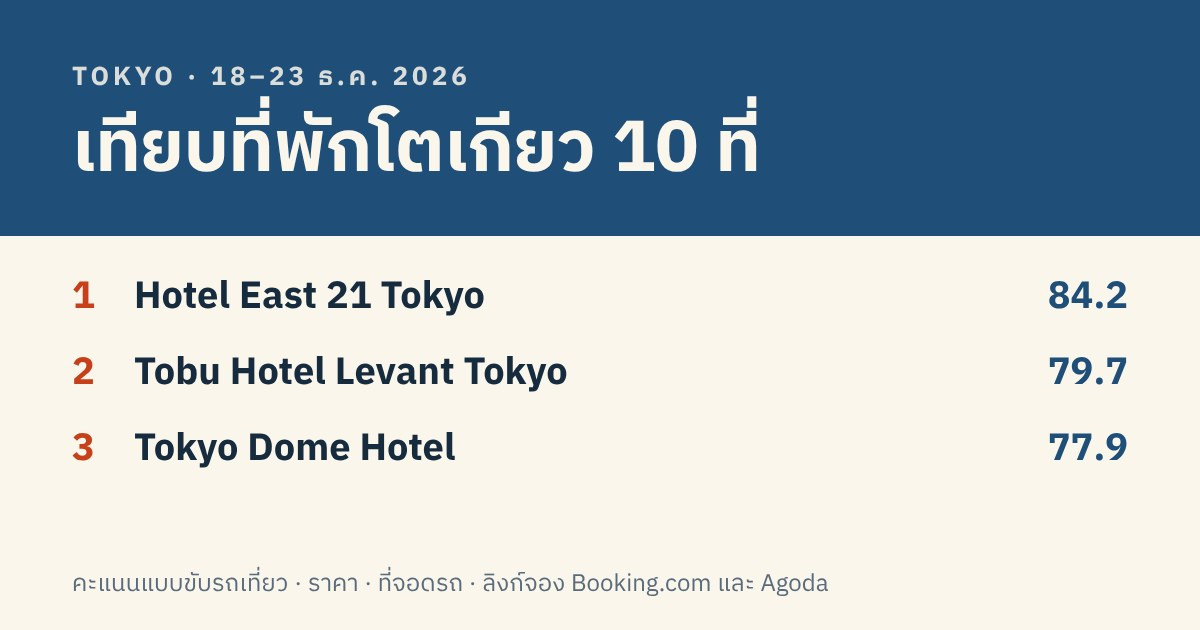
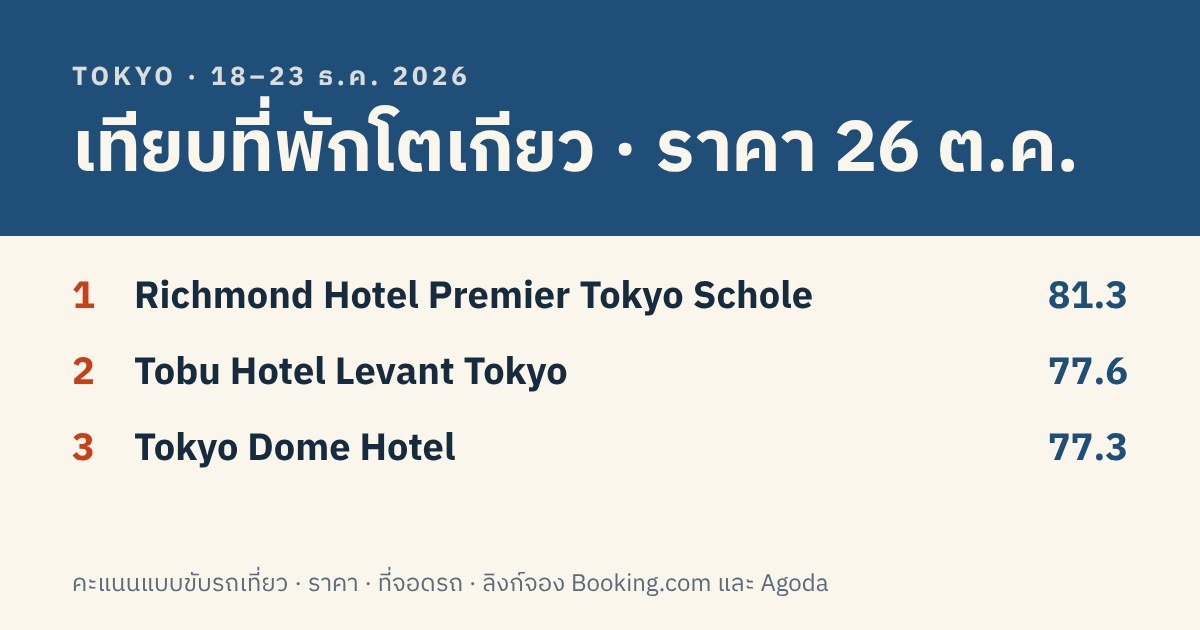
Update Tokyo hotel prices (26 Oct) and re-score
- Prices refreshed from Booking.com and Agoda via Trivago
- Hotel East 21 and Ariake Washington marked sold out, excluded from ranking
- Richmond now scored as 1 room (38 m2 + extra bed)

Claude-Session: https://claude.ai/code/session_01SV98N743TaKhzUEWTdNbCs

diff --git a/tokyo-2026/index.html b/tokyo-2026/index.html
@@ -5,11 +5,11 @@
 <meta name="viewport" content="width=device-width, initial-scale=1, viewport-fit=cover">
 <meta name="robots" content="noindex, nofollow">
 <title>ที่พักโตเกียว 18–23 ธ.ค.</title>
-<meta name="description" content="เทียบที่พักโตเกียว 10 ที่ คะแนน ราคา ที่จอดรถ แผนที่ และลิงก์จอง Booking.com กับ Agoda">
+<meta name="description" content="เทียบที่พักโตเกียว ราคาอัปเดต 26 ต.ค. คะแนน ที่จอดรถ แผนที่ และลิงก์จอง Booking.com กับ Agoda">
 <meta property="og:type" content="website">
 <meta property="og:title" content="ที่พักโตเกียว 18–23 ธ.ค.">
-<meta property="og:description" content="เทียบ 10 ที่พัก · คะแนนแบบขับรถเที่ยว · ราคา ที่จอดรถ และลิงก์จอง">
-<meta property="og:image" content="https://phoneyjung.github.io/PHONE/tokyo-2026/og.jpg">
+<meta property="og:description" content="ราคาอัปเดต 26 ต.ค. · คะแนนแบบขับรถเที่ยว · ที่จอดรถ และลิงก์จอง">
+<meta property="og:image" content="https://phoneyjung.github.io/PHONE/tokyo-2026/og.jpg?v=20261026">
 <meta property="og:image:width" content="1200">
 <meta property="og:image:height" content="630">
 <meta property="og:url" content="https://phoneyjung.github.io/PHONE/tokyo-2026/">
@@ -131,7 +131,7 @@ footer p{margin:0}
       <span class="chip">5 คืน · เช็กอิน 18 ธ.ค.</span>
       <span class="chip">ผู้ใหญ่ 3 + เด็ก 6 ขวบ</span>
       <span class="chip">รถ Serena สูงประมาณ 1.87 ม.</span>
-      <span class="chip">ราคา Booking.com ณ 8 ต.ค. 2026</span>
+      <span class="chip">ราคาเช็กเมื่อ 26 ต.ค. 2026</span>
     </div>
   </header>
 
@@ -177,8 +177,8 @@ footer p{margin:0}
   </section>
 
   <footer>
-    <p><b>ราคา</b> เป็นราคารวม 5 คืนจาก Booking.com ที่เช็กวันที่ 8 ต.ค. 2026 ราคาเปลี่ยนได้ทุกวัน ราคา Agoda ยังไม่ได้เช็กโดยตรง ที่ระบุไว้มาจาก Trivago ซึ่งแสดงแค่เว็บที่ถูกที่สุด</p>
-    <p><b>ความคุ้ม</b> คิดจากราคา ถูกสุดในกลุ่มได้ 10 แพงสุดได้ 4 ที่ไม่มีอาหารเช้าใช้ราคาห้องอย่างเดียว</p>
+    <p><b>ราคา</b> เป็นราคารวม 5 คืนที่ถูกที่สุดที่เจอบน Booking.com หรือ Agoda (ผ่าน Trivago) เมื่อ 26 ต.ค. 2026 บางเรทเป็นแบบไม่คืนเงิน ราคาเปลี่ยนได้ทุกวัน</p>
+    <p><b>ความคุ้ม</b> คิดจากราคา ถูกสุดในกลุ่มที่ยังมีห้องได้ 10 แพงสุดได้ 4 ที่ไม่มีอาหารเช้าใช้ราคาห้องอย่างเดียว ที่ห้องเต็มแล้วไม่นำมาจัดอันดับ</p>
     <p><b>เกณฑ์อื่น</b> (ห้อง ที่จอด ร้านสะดวกซื้อ อาหารเช้า ทำเล) เป็นการประเมินจากข้อมูลโรงแรม รีวิว และระยะบน Google Maps ระยะร้านสะดวกซื้อเป็นเส้นตรง เดินจริงไกลกว่านี้เล็กน้อย</p>
     <p><b>ลิงก์ Agoda</b> ที่มีเครื่องหมาย * สร้างจากชื่อโรงแรม ยังไม่ได้ยืนยันว่าเป็นหน้าของโรงแรมนั้นจริง ถ้ากดแล้วไม่ใช่ ให้ค้นชื่อโรงแรมใน Agoda แทน</p>
   </footer>
@@ -196,8 +196,8 @@ const CRIT=[
 const BQ='checkin=2026-12-18&checkout=2026-12-23&group_adults=3&group_children=1&age=6&selected_currency=THB&no_rooms=';
 const AQ='checkIn=2026-12-18&los=5&adults=3&children=1&childages=6&rooms=';
 const H=[
- {id:'east21',pros:["ถูกที่สุดในกลุ่ม 4 อันดับแรก", "อาหารเช้าดีที่สุด มีออมเล็ตทำสด", "ค่าจอดถูก 1,500 เยน ไม่ต้องจอง", "ใกล้ทางด่วน KidZania และทางไป Kisarazu มีสระว่ายน้ำในร่ม"],cons:["ถ้านั่งรถไฟ ต้องเดินไปสถานี 10 นาทีและเปลี่ยนสาย"],name:'Hotel East 21 Tokyo',area:'Toyocho, Koto',rating:8.5,price:60616,rooms:2,priceNote:'รวมอาหารเช้า · ต้องเช็กว่าได้ห้องแบบไหน',
-  agodaNote:'Trivago: ถูกสุดคือ Trip.com 30,105 บาท (ห้องอย่างเดียว น่าจะเป็นห้องเล็กกว่า)',
+ {id:'east21',soldOut:true,pros:["ถูกที่สุดในกลุ่ม 4 อันดับแรก", "อาหารเช้าดีที่สุด มีออมเล็ตทำสด", "ค่าจอดถูก 1,500 เยน ไม่ต้องจอง", "ใกล้ทางด่วน KidZania และทางไป Kisarazu มีสระว่ายน้ำในร่ม"],cons:["ถ้านั่งรถไฟ ต้องเดินไปสถานี 10 นาทีและเปลี่ยนสาย"],name:'Hotel East 21 Tokyo',area:'Toyocho, Koto',rating:8.5,price:60616,rooms:2,priceNote:'ห้องเต็มบน Booking.com และไม่มีราคาบน Trivago (เช็ก 26 ต.ค.) ราคาเดิมเมื่อ 8 ต.ค. คือ 60,616',
+  agodaNote:'ลองเช็กบน Agoda หรือเว็บโรงแรมโดยตรง',
   s:{room:7,park:10,konbini:8,bf:9,loc:9},
   room:'Twin 27 ตร.ม. × 2 ห้อง หรือ Family 34 ตร.ม. ห้องเดียว · มีสระว่ายน้ำในร่ม (อาจมีค่าใช้)',
   park:'ในร่ม 111 คัน · 1,500 เยน/คืน · สูงไม่เกิน 2.1 ม. · ไม่ต้องจอง · จอดได้ถึง 16:00 วันถัดไป',
@@ -206,10 +206,10 @@ const H=[
   loc:'ใกล้ทางขึ้นทางด่วน Kiba (Shuto สาย 9) และ Wangan · KidZania ประมาณ 3 กม. · ไป Kisarazu และนาริตะสะดวก · ถ้านั่งรถไฟ สถานี Toyocho เดินประมาณ 10 นาที',
   flag:null, lat:35.674496,lng:139.814412,pid:'ChIJiYfvh_2IGGARMcIRnDLkOzg',
   bk:'east-21-tokyo',ag:'hotel-east-21-tokyo-okura-hotels-resorts',agGuess:false},
- {id:'richmond',pros:["ห้องใหญ่ที่สุด Twin 38 ตร.ม. × 2", "ติด Skytree และสถานี Oshiage", "ซูเปอร์มาร์เก็ต Life อยู่ในตึก", "อาหารเช้าดี ค่าจอดถูก 1,500 เยน"],cons:["เอารถออกระหว่างวันเสียค่าจอดเพิ่มทุกครั้ง"],name:'Richmond Hotel Premier Tokyo Schole',area:'Oshiage, Sumida',rating:9.1,price:85849,rooms:2,priceNote:'2 ห้อง รวมอาหารเช้า (ห้องเดียวรวมอาหารเช้า 98,144)',
-  agodaNote:'Trivago: Booking.com ถูกที่สุด',
-  s:{room:10,park:5,konbini:10,bf:8,loc:8},
-  room:'Twin 38 ตร.ม. × 2 ห้อง หรือ Deluxe Twin 54.4 ตร.ม. ห้องเดียว + เตียงเสริม',
+ {id:'richmond',pros:["ราคาลดลงมาก ห้อง 38 ตร.ม. รวมอาหารเช้า", "ติด Skytree และสถานี Oshiage", "ซูเปอร์มาร์เก็ต Life อยู่ในตึก", "อาหารเช้าดี ค่าจอดถูก 1,500 เยน"],cons:["เอารถออกระหว่างวันเสียค่าจอดเพิ่มทุกครั้ง"],name:'Richmond Hotel Premier Tokyo Schole',area:'Oshiage, Sumida',rating:9.1,price:49952,rooms:1,priceNote:'Booking.com ห้องเดียว รวมอาหารเช้า เรทไม่คืนเงิน · เรทยกเลิกได้ 56,069 · แบบ 2 ห้อง 80,340 · อาหารเช้าของเด็กอาจจ่ายเพิ่ม',
+  agodaNote:'Trivago: Booking.com ถูกที่สุด · trivago DEALS 59,140',
+  s:{room:8,park:5,konbini:10,bf:8,loc:8},
+  room:'Standard 38 ตร.ม. ห้องเดียว เตียงเดี่ยว 2 + เตียงเสริม (หรือ 2 ห้อง 80,340 บาท)',
   park:'ลาน Times ชั้น 3–4 ในตึกโรงแรม · 1,500 เยน/คืน · สูง 2.1 กว้าง 1.9 ยาว 5.0 ม. หนักไม่เกิน 2.5 ตัน · จองไม่ได้',
   bf:'บุฟเฟต์ · ผู้ใหญ่ 2,500 เด็กประถม 1,250 เยน · 06:30–10:30 · รีวิวส่วนใหญ่ชม',
   konbini:'ซูเปอร์มาร์เก็ต Life ในตึกเดียวกัน (09:30–24:00) · FamilyMart ที่สถานีประมาณ 70 ม. · 7-Eleven 24 ชม. ประมาณ 160 ม.',
@@ -217,7 +217,7 @@ const H=[
   flag:{t:'เอารถออกระหว่างวันต้องเสียค่าจอดเพิ่มทุกครั้ง ถ้าขับรถเที่ยวทุกวันจะเสียเพิ่มเกือบทุกวัน',bad:true},
   lat:35.710234,lng:139.813758,pid:'ChIJlTrCJyqPGGARe9oTcpE9r3k',
   bk:'richmond-hotel-premier-tokyo-oshiage',ag:'richmond-hotel-premier-tokyo-oshiage',agGuess:false},
- {id:'dome',pros:["Lawson 24 ชม. อยู่ในโรงแรม", "ติด Tokyo Dome City มีเครื่องเล่นให้ลูก", "ที่จอดใหญ่ 283 คัน", "JR ไป Akihabara 2 สถานี"],cons:["ห้องเดียว เตียงเดี่ยว 3 เตียง ลูกต้องนอนร่วม"],name:'Tokyo Dome Hotel',area:'Suidobashi, Bunkyo',rating:8.7,price:76006,rooms:1,priceNote:'ห้องเดียว รวมอาหารเช้า',
+ {id:'dome',pros:["Lawson 24 ชม. อยู่ในโรงแรม", "ติด Tokyo Dome City มีเครื่องเล่นให้ลูก", "ที่จอดใหญ่ 283 คัน", "JR ไป Akihabara 2 สถานี"],cons:["ห้องเดียว เตียงเดี่ยว 3 เตียง ลูกต้องนอนร่วม"],name:'Tokyo Dome Hotel',area:'Suidobashi, Bunkyo',rating:8.7,price:78862,rooms:1,priceNote:'Booking.com ห้องเดียว รวมอาหารเช้า · ไม่รวมอาหารเช้า 68,336',
   agodaNote:'Trivago ไม่มีราคา',
   s:{room:7,park:9,konbini:10,bf:7,loc:8},
   room:'Triple 33 ตร.ม. เตียงเดี่ยว 3 เตียง (ลูกนอนร่วม)',
@@ -227,8 +227,8 @@ const H=[
   loc:'อยู่กลางเมือง ใกล้ Harajuku ที่สุดในกลุ่ม (ประมาณ 6 กม.) · ใกล้ทางขึ้นทางด่วน Iidabashi (Shuto สาย 5) · ไกล Kisarazu และนาริตะกว่าที่อื่น · ติด Tokyo Dome City',
   flag:null, lat:35.703667,lng:139.753393,pid:'ChIJRZ_bSz-MGGARPMc7IsdsZiY',
   bk:'tokyo-dome-hotel',ag:'tokyo-dome-hotel',agGuess:true},
- {id:'tobu',pros:["ทำเลเข้ากับแผนที่สุด ไม่ต้องแก้แผน", "JR ไป Akihabara และสาย Hanzomon ไป Omotesando ได้ตรง", "ที่จอดรับรถสูงได้ 2.2 ม.", "ร้านสะดวกซื้อและซูเปอร์มาร์เก็ตรอบโรงแรม"],cons:["อาหารเช้าเมนูซ้ำ ค่าจอด 3,000 เยน และจองที่จอดไม่ได้"],name:'Tobu Hotel Levant Tokyo',area:'Kinshicho, Sumida · ที่เลือกไว้เดิม',rating:8.8,price:68626,rooms:2,priceNote:'2 ห้อง รวมอาหารเช้า (ห้องเดียวรวมอาหารเช้า 63,642)',
-  agodaNote:'Trivago: ถูกสุดคือ Trip.com 55,141 บาท (ห้องเดียว ไม่รวมอาหารเช้า)',
+ {id:'tobu',pros:["ทำเลเข้ากับแผนที่สุด ไม่ต้องแก้แผน", "JR ไป Akihabara และสาย Hanzomon ไป Omotesando ได้ตรง", "ที่จอดรับรถสูงได้ 2.2 ม.", "ร้านสะดวกซื้อและซูเปอร์มาร์เก็ตรอบโรงแรม"],cons:["อาหารเช้าเมนูซ้ำ ค่าจอด 3,000 เยน และจองที่จอดไม่ได้"],name:'Tobu Hotel Levant Tokyo',area:'Kinshicho, Sumida · ที่เลือกไว้เดิม',rating:8.8,price:79492,rooms:2,priceNote:'Booking.com 2 ห้อง รวมอาหารเช้า · ห้องเดียวรวมอาหารเช้า 91,842',
+  agodaNote:'Trivago ไม่มีราคา',
   s:{room:8,park:8,konbini:10,bf:6,loc:9},
   room:'Twin 28.5 ตร.ม. × 2 ห้อง หรือห้อง 4 เตียงเดี่ยว ห้องเดียว',
   park:'ในร่ม 84 คัน · 3,000 เยน/คืน · สูงไม่เกิน 2.2 ม. · จองไม่ได้ มาก่อนได้ก่อน',
@@ -237,7 +237,7 @@ const H=[
   loc:'ใกล้ทางขึ้นทางด่วน Kinshicho (Shuto สาย 7) ต่อไปนาริตะและ Kisarazu ได้ · Skytree ประมาณ 1.4 กม. · สถานี Kinshicho 5 นาทีถ้าอยากนั่งรถไฟ · แผนเดิมเขียนจากที่นี่',
   flag:null, lat:35.697213,lng:139.810939,pid:'ChIJBbNl_1yNGGARuA1NfRdQ4cs',
   bk:'tobu-levant-tokyo',ag:'tobu-hotel-levant-tokyo',agGuess:false},
- {id:'asakusatobu',pros:["รีวิวสูง 9.1 จากกว่า 7,800 รีวิว", "ติดสถานี Asakusa สาย Ginza ไป Ueno และ Omotesando ได้ตรง", "7-Eleven ติดโรงแรม", "มีห้องธีม Hello Kitty"],cons:["แพง และเป็นห้องเดียวแบบ Triple ต้องจองที่จอด"],name:'Asakusa Tobu Hotel',area:'Asakusa, Taito · ตัวเลือกใหม่',rating:9.1,price:88595,rooms:1,priceNote:'ห้องเดียว รวมอาหารเช้า',
+ {id:'asakusatobu',pros:["รีวิวสูง 9.1 จากกว่า 7,800 รีวิว", "ติดสถานี Asakusa สาย Ginza ไป Ueno และ Omotesando ได้ตรง", "7-Eleven ติดโรงแรม", "มีห้องธีม Hello Kitty"],cons:["แพง และเป็นห้องเดียวแบบ Triple ต้องจองที่จอด"],name:'Asakusa Tobu Hotel',area:'Asakusa, Taito · ตัวเลือกใหม่',rating:9.1,price:87950,rooms:1,priceNote:'Booking.com ห้องเดียว รวมอาหารเช้า · ไม่รวมอาหารเช้า 81,043',
   agodaNote:'Trivago ไม่มีราคา',
   s:{room:7,park:7,konbini:10,bf:8,loc:8},
   room:'Deluxe Triple 35 ตร.ม. · มีห้องธีม Hello Kitty (ราคาแยก)',
@@ -247,8 +247,8 @@ const H=[
   loc:'ติดสถานี Asakusa · สาย Ginza ไป Ueno และ Omotesando ได้ตรง · สาย Tobu ไป Skytree 1 สถานี',
   flag:null, lat:35.711385,lng:139.797425,pid:'ChIJ8UTIv8aOGGARrFzeWHTIBKU',
   bk:'asakusa-tobu',ag:'asakusa-tobu-hotel',agGuess:true},
- {id:'ariake',pros:["ค่าจอดถูกที่สุด 1,000 เยน ไม่ต้องจอง", "ร้านสะดวกซื้อและ McDonald's อยู่ในตึก", "ใกล้ KidZania และทางไป Kisarazu"],cons:["ห้องเล็ก รีวิวต่ำกว่าที่อื่น และไกลย่าน Ueno กับ Skytree"],name:'Tokyo Bay Ariake Washington Hotel',area:'Ariake, Koto · ตัวเลือกใหม่',rating:8.3,price:69445,rooms:1,priceNote:'ห้องเดียว รวมอาหารเช้า',
-  agodaNote:'Trivago ไม่มีราคา',
+ {id:'ariake',soldOut:true,pros:["ค่าจอดถูกที่สุด 1,000 เยน ไม่ต้องจอง", "ร้านสะดวกซื้อและ McDonald's อยู่ในตึก", "ใกล้ KidZania และทางไป Kisarazu"],cons:["ห้องเล็ก รีวิวต่ำกว่าที่อื่น และไกลย่าน Ueno กับ Skytree"],name:'Tokyo Bay Ariake Washington Hotel',area:'Ariake, Koto · ตัวเลือกใหม่',rating:8.3,price:69445,rooms:1,priceNote:'ห้องเต็มบน Booking.com และไม่มีราคาบน Trivago (เช็ก 26 ต.ค.) ราคาเดิมเมื่อ 8 ต.ค. คือ 69,445',
+  agodaNote:'ลองเช็กบน Agoda หรือเว็บโรงแรมโดยตรง',
   s:{room:5,park:9,konbini:10,bf:7,loc:7},
   room:'Superior Triple 29 ตร.ม. ชั้นสูง · รับผู้ใหญ่ 3 ต้องถามเรื่องเตียงของลูก',
   park:'อาคารจอดรถ · 1,000 เยน/คืน · สูง 2.1 กว้าง 1.9 ยาว 5.5 ม. · จองไม่ได้',
@@ -258,8 +258,8 @@ const H=[
   flag:{t:'คะแนนรีวิวบน Trivago 7.6 จาก 13,290 รีวิว ต่ำกว่าที่อื่นในกลุ่ม และห้องค่อนข้างเล็ก',bad:false},
   lat:35.632620,lng:139.793354,pid:'ChIJz_vNA-iJGGAR7k76BIoVQP0',
   bk:'tokyo-bay-ariake-washingtonhotel',ag:'tokyo-bay-ariake-washington-hotel',agGuess:true},
- {id:'monday',pros:["มีครัวและเครื่องซักผ้าอบแห้งในห้อง", "7-Eleven ห่าง 40 ม.", "ที่จอดจองได้ รับรถสูงได้ 2.3 ม.", "ราคาบน Agoda ถูกกว่า (56,262 บาท)"],cons:["ไม่มีอาหารเช้า และต้องเช็กเอาต์ 10:00"],name:'MONday Apart Premium Ueno',area:'Kitaueno, Taito',rating:8.7,price:67382,rooms:1,priceNote:'ห้องเดียว ไม่มีอาหารเช้า',
-  agodaNote:'Trivago: Agoda ถูกกว่า ที่ 56,262 บาท',
+ {id:'monday',pros:["มีครัวและเครื่องซักผ้าอบแห้งในห้อง", "7-Eleven ห่าง 40 ม.", "ที่จอดจองได้ รับรถสูงได้ 2.3 ม.", "ราคาบน Agoda ถูกกว่า Booking.com ประมาณ 28,000 บาท"],cons:["ไม่มีอาหารเช้า และต้องเช็กเอาต์ 10:00"],name:'MONday Apart Premium Ueno',area:'Kitaueno, Taito',rating:8.7,price:45577,rooms:1,priceNote:'Agoda ห้องเดียว ไม่มีอาหารเช้า เรทไม่คืนเงิน · Booking.com 73,839',
+  agodaNote:'Trivago: Agoda ถูกที่สุด · Priceline 46,319',
   s:{room:6,park:7,konbini:9,bf:3,loc:7},
   room:'30 ตร.ม. เตียงเดี่ยว 2 + เตียงสองชั้น · ครัวเล็ก · เครื่องซักผ้าอบแห้ง',
   park:'ในตึก · 3,000 เยน/คืน · สูงไม่เกิน 2.3 ม. · ต้องจอง',
@@ -269,8 +269,8 @@ const H=[
   flag:{t:'เช็กเอาต์ 10:00 มีรีวิวว่าเลยเวลา 1 ชั่วโมงโดนคิด 6,500 เยน',bad:false},
   lat:35.716847,lng:139.781797,pid:'ChIJb5nSLeKPGGARqPRN737GMls',
   bk:'monday-apart-premium-ueno',ag:'monday-apart-premium-ueno',agGuess:true},
- {id:'andhere',pros:["ห้องใหญ่ 39–40 ตร.ม. มีบ่ออาบน้ำรวมฟรี", "มีครัวและเครื่องซักผ้า", "ใจกลาง Ueno เดินไป Ameyoko และ TAKEYA ได้", "เคยพักแล้ว รู้จักที่นี่"],cons:["แพงที่สุด และ Serena น่าจะเข้าที่จอดไม่ได้"],name:'&Here TOKYO UENO',area:'Ueno, Taito · เคยพักแล้ว',rating:8.7,price:94824,rooms:1,priceNote:'ห้องเดียว ไม่รวมอาหารเช้า (เพิ่มประมาณ 1,980 เยน/คน/วัน)',
-  agodaNote:'Trivago: Booking.com ถูกที่สุด',
+ {id:'andhere',pros:["ห้องใหญ่ 39–40 ตร.ม. มีบ่ออาบน้ำรวมฟรี", "มีครัวและเครื่องซักผ้า", "ใจกลาง Ueno เดินไป Ameyoko และ TAKEYA ได้", "เคยพักแล้ว รู้จักที่นี่"],cons:["แพงที่สุด และ Serena น่าจะเข้าที่จอดไม่ได้"],name:'&Here TOKYO UENO',area:'Ueno, Taito · เคยพักแล้ว',rating:8.7,price:94756,rooms:1,priceNote:'Agoda ห้องเดียว ไม่รวมอาหารเช้า (เพิ่มประมาณ 1,980 เยน/คน/วัน) · Booking.com 102,439 ยกเลิกฟรี',
+  agodaNote:'Trivago: Agoda ถูกที่สุด',
   s:{room:8,park:3,konbini:9,bf:6,loc:7},
   room:'Deluxe Family 39 ตร.ม. (ดับเบิล 2 + โซฟาเบด) หรือ Family 40 ตร.ม. (ดับเบิล 2 + สองชั้น 2) · ครัวเล็ก · เครื่องซักผ้า · บ่ออาบน้ำรวมฟรี',
   park:'ในร่ม 3,300 เยน/คืน เข้าออกได้ไม่จำกัด ต้องติดต่อโรงแรมเพื่อจอง · สำรอง: ลานใต้ดิน Ueno Chuo-dori ประมาณ 260 ม. (สูงไม่เกิน 2.0 ม.)',
@@ -280,8 +280,8 @@ const H=[
   flag:{t:'Booking.com ระบุว่าที่จอดรับรถสูงไม่เกิน 1.55 ม. Serena น่าจะเข้าไม่ได้ ต้องไปจอดลานสาธารณะ',bad:true},
   lat:35.709325,lng:139.770940,pid:'ChIJfxcX8E2NGGARwjCdiIe1S4k',
   bk:'amp-here-tokyo-ueno',ag:'here-tokyo-ueno',agGuess:true},
- {id:'aima',pros:["ห้อง 38 ตร.ม. มีครัวและเครื่องซักผ้า", "7-Eleven ห่าง 30 ม.", "เดินถึงสถานี Ueno 5 นาที", "รีวิว 9.0"],cons:["ไม่มีที่จอดของตัวเองและไม่มีอาหารเช้า"],name:'AIMA Ueno East',area:'Higashiueno, Taito',rating:9.0,price:84685,rooms:1,priceNote:'ห้องเดียว ไม่มีอาหารเช้า',
-  agodaNote:'ยังไม่ได้เช็กกับ Trivago',
+ {id:'aima',pros:["ห้อง 38 ตร.ม. มีครัวและเครื่องซักผ้า", "7-Eleven ห่าง 30 ม.", "เดินถึงสถานี Ueno 5 นาที", "รีวิว 9.0"],cons:["ไม่มีที่จอดของตัวเองและไม่มีอาหารเช้า"],name:'AIMA Ueno East',area:'Higashiueno, Taito',rating:9.0,price:90493,rooms:1,priceNote:'Booking.com ห้องเดียว ไม่มีอาหารเช้า',
+  agodaNote:'ยังไม่มีราคาบน Trivago',
   s:{room:8,park:3,konbini:9,bf:3,loc:7},
   room:'38 ตร.ม. ดับเบิล 2 + โซฟาเบด · ครัว · เครื่องซักผ้า',
   park:'ไม่มีที่จอดของตัวเอง · ลานใต้ดิน Ueno Chuo-dori ประมาณ 370 ม. (สูง 2.0 กว้าง 1.9 ม. วันธรรมดา 08:00–22:00 สูงสุด 2,000 เยน เสาร์อาทิตย์ไม่มีเพดาน) หรือ Ueno Parking Center (จองได้ สูงสุด 2,000/3,000 เยนต่อวัน)',
@@ -290,7 +290,7 @@ const H=[
   loc:'สถานี Ueno เดินประมาณ 5 นาที',
   flag:null, lat:35.710490,lng:139.777539,pid:'ChIJI1VUdnqPGGARVX7UouEL6Rk',
   bk:'aima-dong-jing',ag:'hotel-aima',agGuess:true},
- {id:'sunroute',pros:["ถูกที่สุด 42,641 บาท รวมอาหารเช้า", "อยู่ Asakusa ใกล้สถานี"],cons:["ห้องเล็ก 20 ตร.ม. และ Serena น่าจะเข้าที่จอดไม่ได้"],name:'Hotel Sunroute Asakusa',area:'Kaminarimon, Taito',rating:8.3,price:42641,rooms:2,priceNote:'2 ห้อง รวมอาหารเช้า',
+ {id:'sunroute',pros:["ถูกที่สุด 42,641 บาท รวมอาหารเช้า", "อยู่ Asakusa ใกล้สถานี"],cons:["ห้องเล็ก 20 ตร.ม. และ Serena น่าจะเข้าที่จอดไม่ได้"],name:'Hotel Sunroute Asakusa',area:'Kaminarimon, Taito',rating:8.3,price:46256,rooms:2,priceNote:'Booking.com 2 ห้อง รวมอาหารเช้า · ไม่รวมอาหารเช้า 39,621',
   agodaNote:'Trivago ไม่มีราคา',
   s:{room:4,park:1,konbini:7,bf:5,loc:7},
   room:'Twin 20 ตร.ม. × 2 ห้อง',
@@ -302,7 +302,7 @@ const H=[
   lat:35.710672,lng:139.792037,pid:'ChIJnTTctAyMGGARGGfA9Zr0sgM',
   bk:'sunroute-asakusa',ag:'hotel-sunroute-asakusa',agGuess:true},
 ];
-const lo=Math.min(...H.map(h=>h.price)), hi=Math.max(...H.map(h=>h.price));
+const AV=H.filter(h=>!h.soldOut);const lo=Math.min(...AV.map(h=>h.price)), hi=Math.max(...AV.map(h=>h.price));
 H.forEach(h=>{h.s.value=Math.round((10-(h.price-lo)/(hi-lo)*6)*10)/10});
 const KEY='tokyo-hotel-weights-v1';
 let W={}; CRIT.forEach(c=>W[c.k]=c.w);
@@ -321,14 +321,14 @@ function renderWeights(){
 }
 function save(){try{localStorage.setItem(KEY,JSON.stringify(W))}catch(e){}}
 function render(){
-  const list=H.map(h=>({h,t:score(h)})).sort((a,b)=>b.t-a.t);
-  document.getElementById('rank').innerHTML=list.map((x,i)=>`<a href="#${x.h.id}"><span class="pos num">${i+1}</span><span class="nm">${esc(x.h.name)}</span><span class="sc num">${x.t.toFixed(1)}</span><span class="bar"><i style="width:${x.t}%"></i></span><span class="meta num">${fmt(x.h.price)} บาท · ${x.h.rooms} ห้อง · ${esc(x.h.area.split(' · ')[0])}</span></a>`).join('');
-  document.getElementById('stable').innerHTML=`<thead><tr><th>ที่พัก</th>${CRIT.map(c=>`<th>${c.n}<br>(×${W[c.k]})</th>`).join('')}<th>รวม /100</th><th>ราคา (บาท)</th></tr></thead><tbody>${list.map((x,i)=>`<tr><td>${i+1}. ${esc(x.h.name.replace('Hotel Premier Tokyo ','').replace('Tokyo Bay ','').replace(' Hotel Tokyo','').replace('Hotel ',''))}</td>${CRIT.map(c=>`<td style="color:${color(x.h.s[c.k])}">${x.h.s[c.k]}</td>`).join('')}<td class="tot">${x.t.toFixed(1)}</td><td>${fmt(x.h.price)}</td></tr>`).join('')}</tbody>`;
-  document.getElementById('cards').innerHTML=list.map((x,i)=>{const h=x.h;return `
+  const list=AV.map(h=>({h,t:score(h)})).sort((a,b)=>b.t-a.t);const sold=H.filter(h=>h.soldOut).map(h=>({h,t:null}));
+  document.getElementById('rank').innerHTML=list.map((x,i)=>`<a href="#${x.h.id}"><span class="pos num">${i+1}</span><span class="nm">${esc(x.h.name)}</span><span class="sc num">${x.t.toFixed(1)}</span><span class="bar"><i style="width:${x.t}%"></i></span><span class="meta num">${fmt(x.h.price)} บาท · ${x.h.rooms} ห้อง · ${esc(x.h.area.split(' · ')[0])}</span></a>`).join('')+sold.map(x=>`<a href="#${x.h.id}"><span class="pos num">–</span><span class="nm">${esc(x.h.name)}</span><span class="sc">เต็ม</span><span class="meta">ห้องเต็มแล้ว (เช็ก 26 ต.ค.)</span></a>`).join('');
+  document.getElementById('stable').innerHTML=`<thead><tr><th>ที่พัก</th>${CRIT.map(c=>`<th>${c.n}<br>(×${W[c.k]})</th>`).join('')}<th>รวม /100</th><th>ราคา (บาท)</th></tr></thead><tbody>${list.map((x,i)=>`<tr><td>${i+1}. ${esc(x.h.name.replace('Hotel Premier Tokyo ','').replace('Tokyo Bay ','').replace(' Hotel Tokyo','').replace('Hotel ',''))}</td>${CRIT.map(c=>`<td style="color:${color(x.h.s[c.k])}">${x.h.s[c.k]}</td>`).join('')}<td class="tot">${x.t.toFixed(1)}</td><td>${fmt(x.h.price)}</td></tr>`).join('')}${sold.map(x=>`<tr><td>– ${esc(x.h.name.replace('Hotel Premier Tokyo ','').replace('Tokyo Bay ','').replace(' Hotel Tokyo','').replace('Hotel ',''))}</td>${CRIT.map(()=>'<td>–</td>').join('')}<td>เต็ม</td><td>–</td></tr>`).join('')}</tbody>`;
+  document.getElementById('cards').innerHTML=list.concat(sold).map((x,i)=>{const h=x.h;return `
   <article class="card" id="${h.id}">
-    <div class="card-head"><div><div class="label">อันดับ ${i+1}</div><h3>${esc(h.name)}</h3><div class="area">${esc(h.area)} · รีวิว Booking ${h.rating}</div></div>
-      <div class="big num">${x.t.toFixed(1)}<small>จาก 100</small></div></div>
-    <div class="price"><b class="num">${fmt(h.price)} บาท</b><span class="num">ประมาณ ${fmt(Math.round(h.price/5))} บาท/คืน · ${esc(h.priceNote)}</span><span>${esc(h.agodaNote)}</span></div>
+    <div class="card-head"><div><div class="label">${x.t===null?'ห้องเต็มแล้ว':'อันดับ '+(i+1)}</div><h3>${esc(h.name)}</h3><div class="area">${esc(h.area)} · รีวิว Booking ${h.rating}</div></div>
+      <div class="big num">${x.t===null?'เต็ม':x.t.toFixed(1)}<small>${x.t===null?'เช็ก 26 ต.ค.':'จาก 100'}</small></div></div>
+    <div class="price"><b class="num">${h.soldOut?'ห้องเต็ม':fmt(h.price)+' บาท'}</b><span class="num">${h.soldOut?'':'ประมาณ '+fmt(Math.round(h.price/5))+' บาท/คืน · '}${esc(h.priceNote)}</span><span>${esc(h.agodaNote)}</span></div>
     <div class="scores">${CRIT.map(c=>`<div class="s"><div class="t"><span>${c.n}</span><b>${h.s[c.k]}</b></div><div class="mini"><i style="width:${h.s[c.k]*10}%;background:${color(h.s[c.k])}"></i></div></div>`).join('')}</div>
     <ul class="pc">${h.pros.map(p=>`<li>${esc(p)}</li>`).join('')}${h.cons.map(p=>`<li class="con">${esc(p)}</li>`).join('')}</ul>
     ${h.flag?`<div class="flag${h.flag.bad?' bad':''}">${esc(h.flag.t)}</div>`:''}
